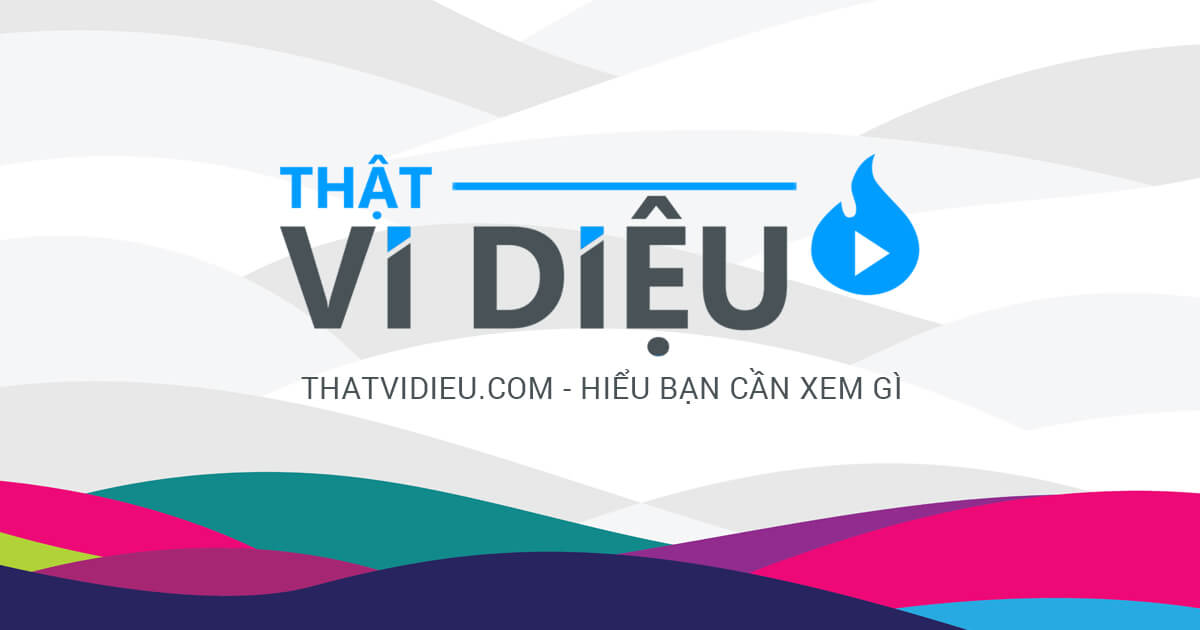
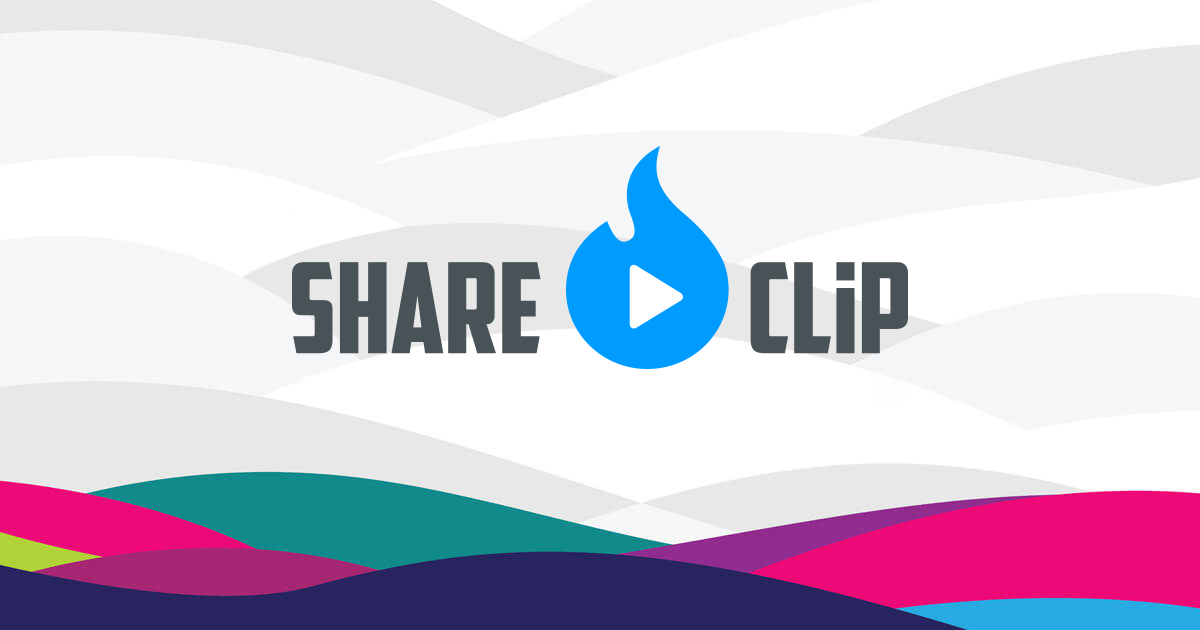
fix login + add langue

Changed region(s): [[0.2158, 0.2413, 0.7708, 0.6333]]

diff --git a/library/My/Controller/MyController.php b/library/My/Controller/MyController.php
@@ -56,6 +56,7 @@ class MyController extends AbstractActionController
     {
         if ($arrData['module'] == 'frontend') {
             //set all page
+//            <link rel="alternate" href="http://sharevideoclip.com" hreflang="en-us" />
             $this->renderer->headMeta()
                 ->appendHttpEquiv('Content-Type', 'text/html; charset=utf-8')
                 ->appendHttpEquiv('content-language', 'en-US')
@@ -66,7 +67,8 @@ class MyController extends AbstractActionController
                 ->setProperty('og:site_name', 'Share video clip');
             $this->renderer
                 ->headLink(array('rel' => 'shortcut ', 'href' => STATIC_URL . '/images/favicon.png'))
-                ->headLink(array('rel' => 'icon ', 'sizes' => '192x192', 'href' => STATIC_URL . '/images/favicon-192x192.png'));
+                ->headLink(array('rel' => 'icon ', 'sizes' => '192x192', 'href' => STATIC_URL . '/images/favicon-192x192.png'))
+                ->headLink(array('rel' => 'alternate ', 'href' => \My\General::SITE_DOMAIN_FULL, 'hreflang' => 'en-us'));
 
             //set 1 page
             switch ($this->resource) {
